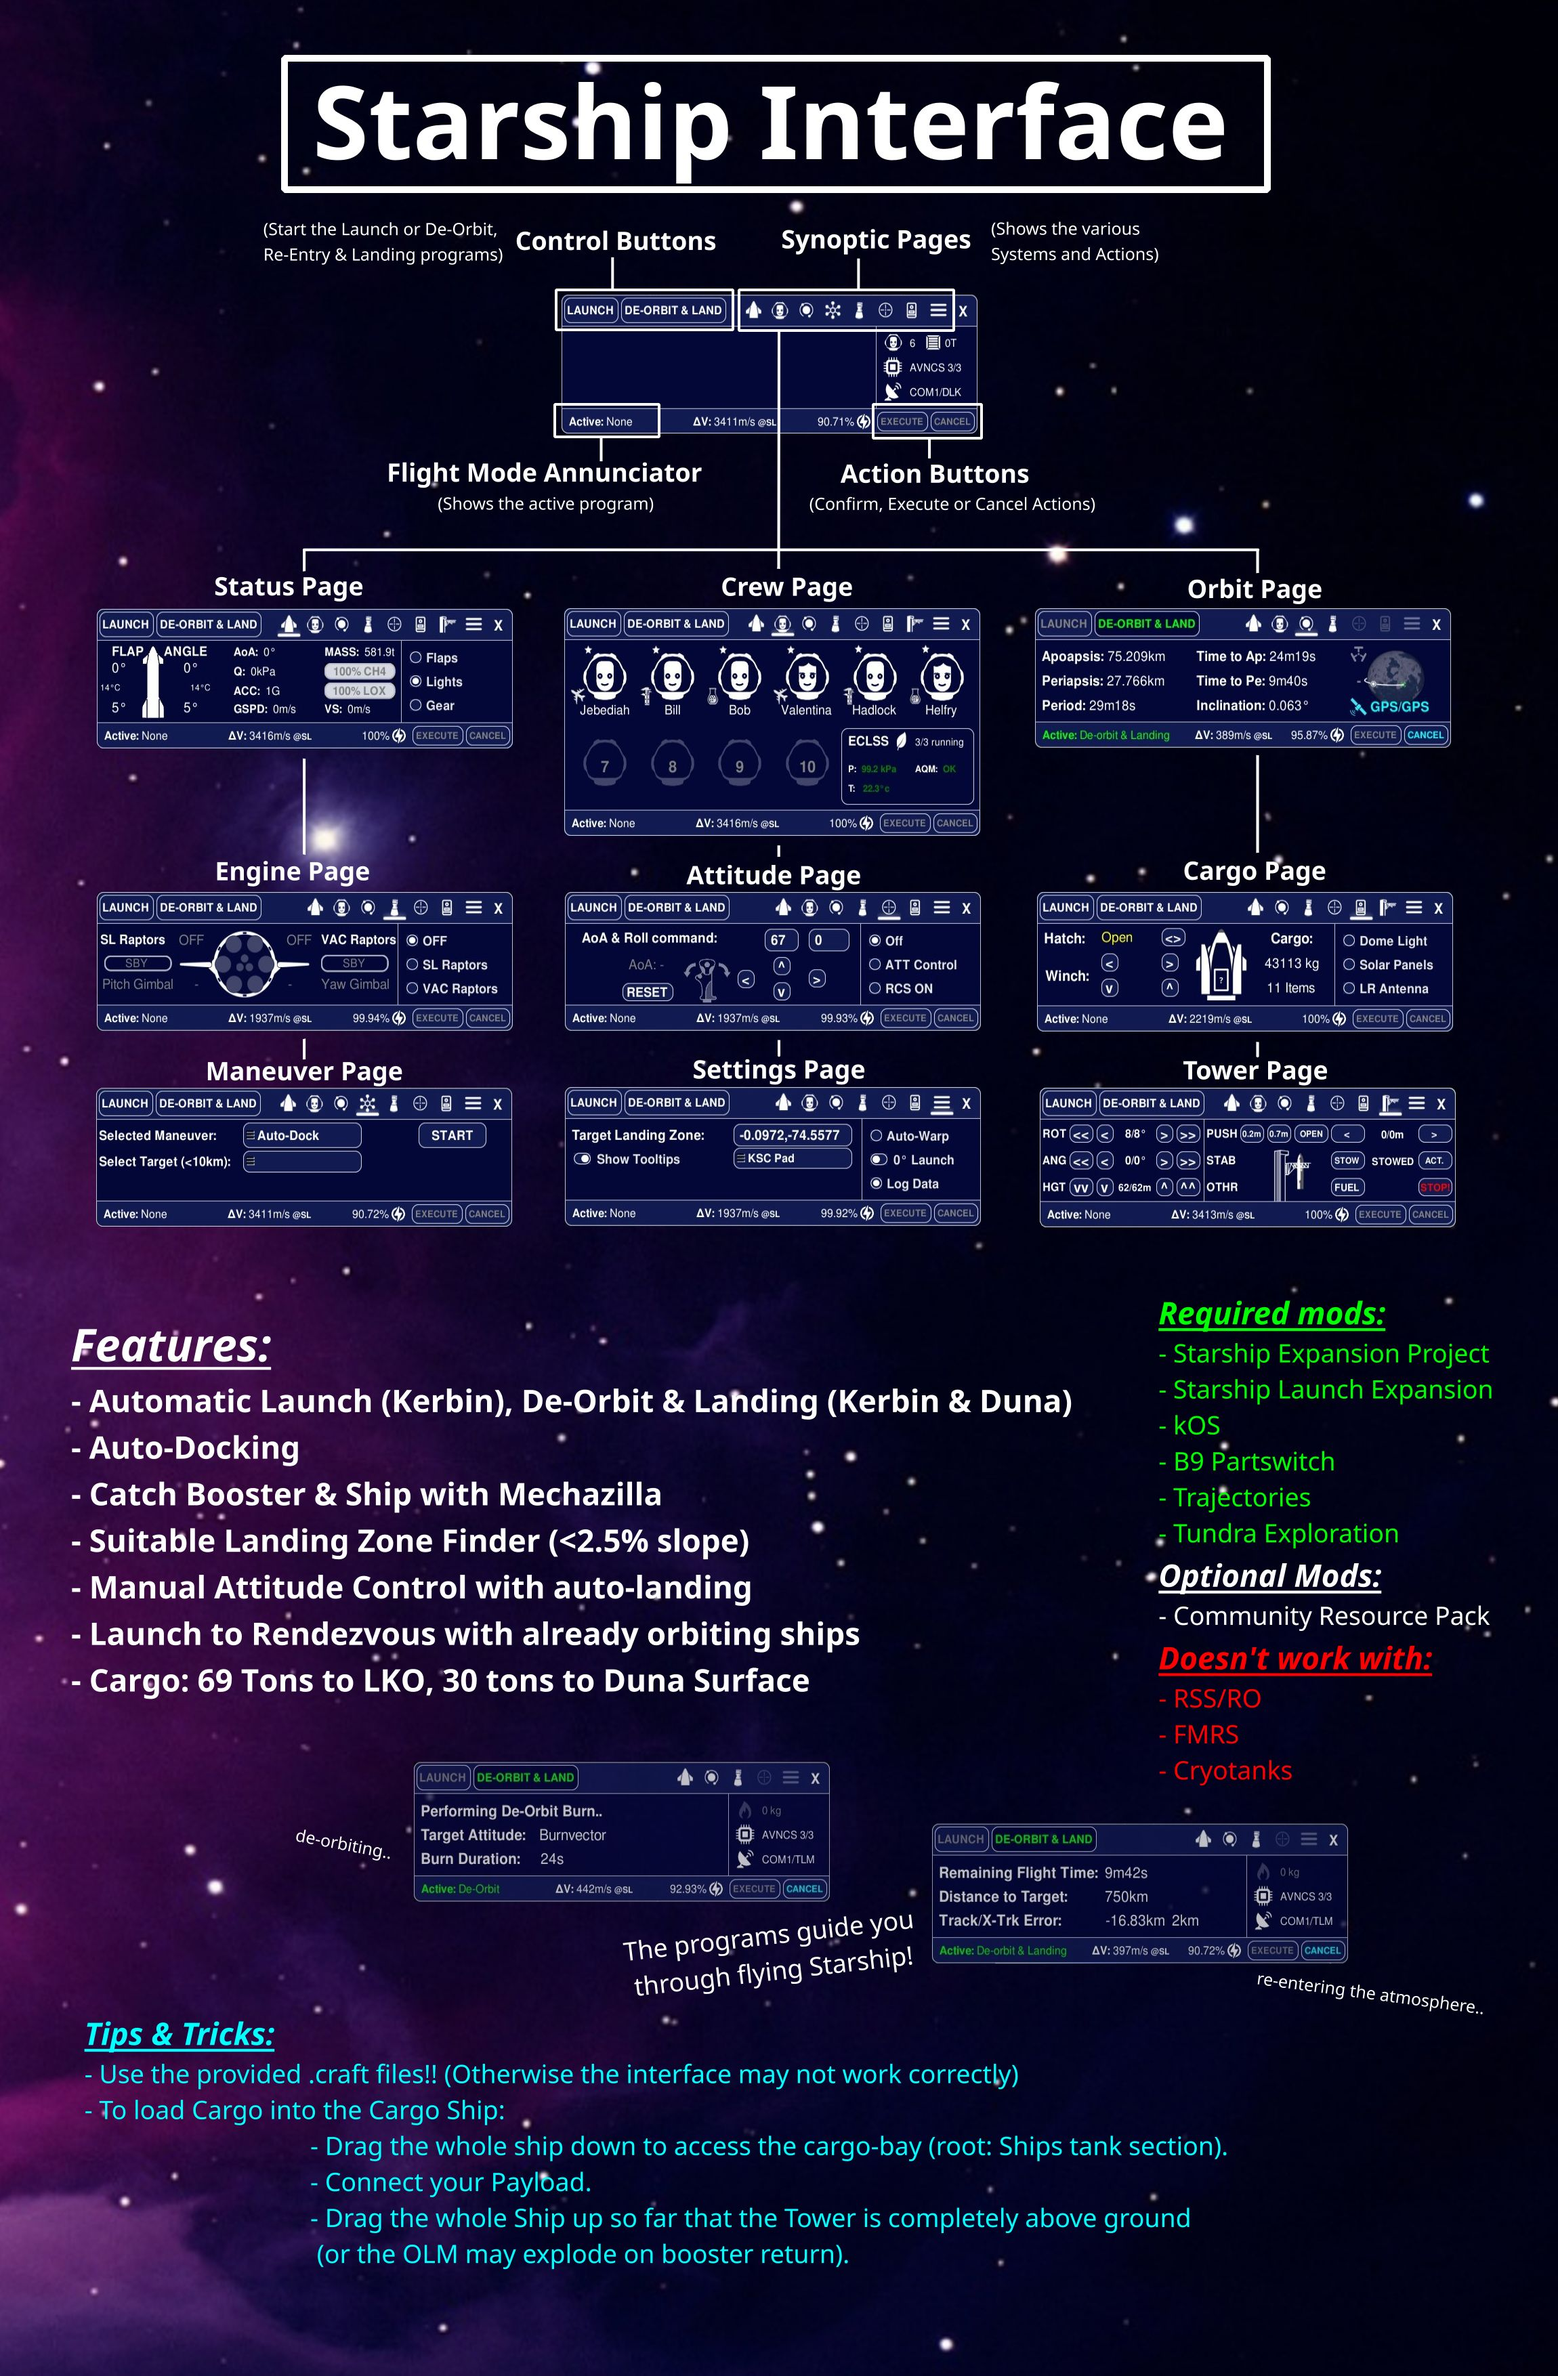
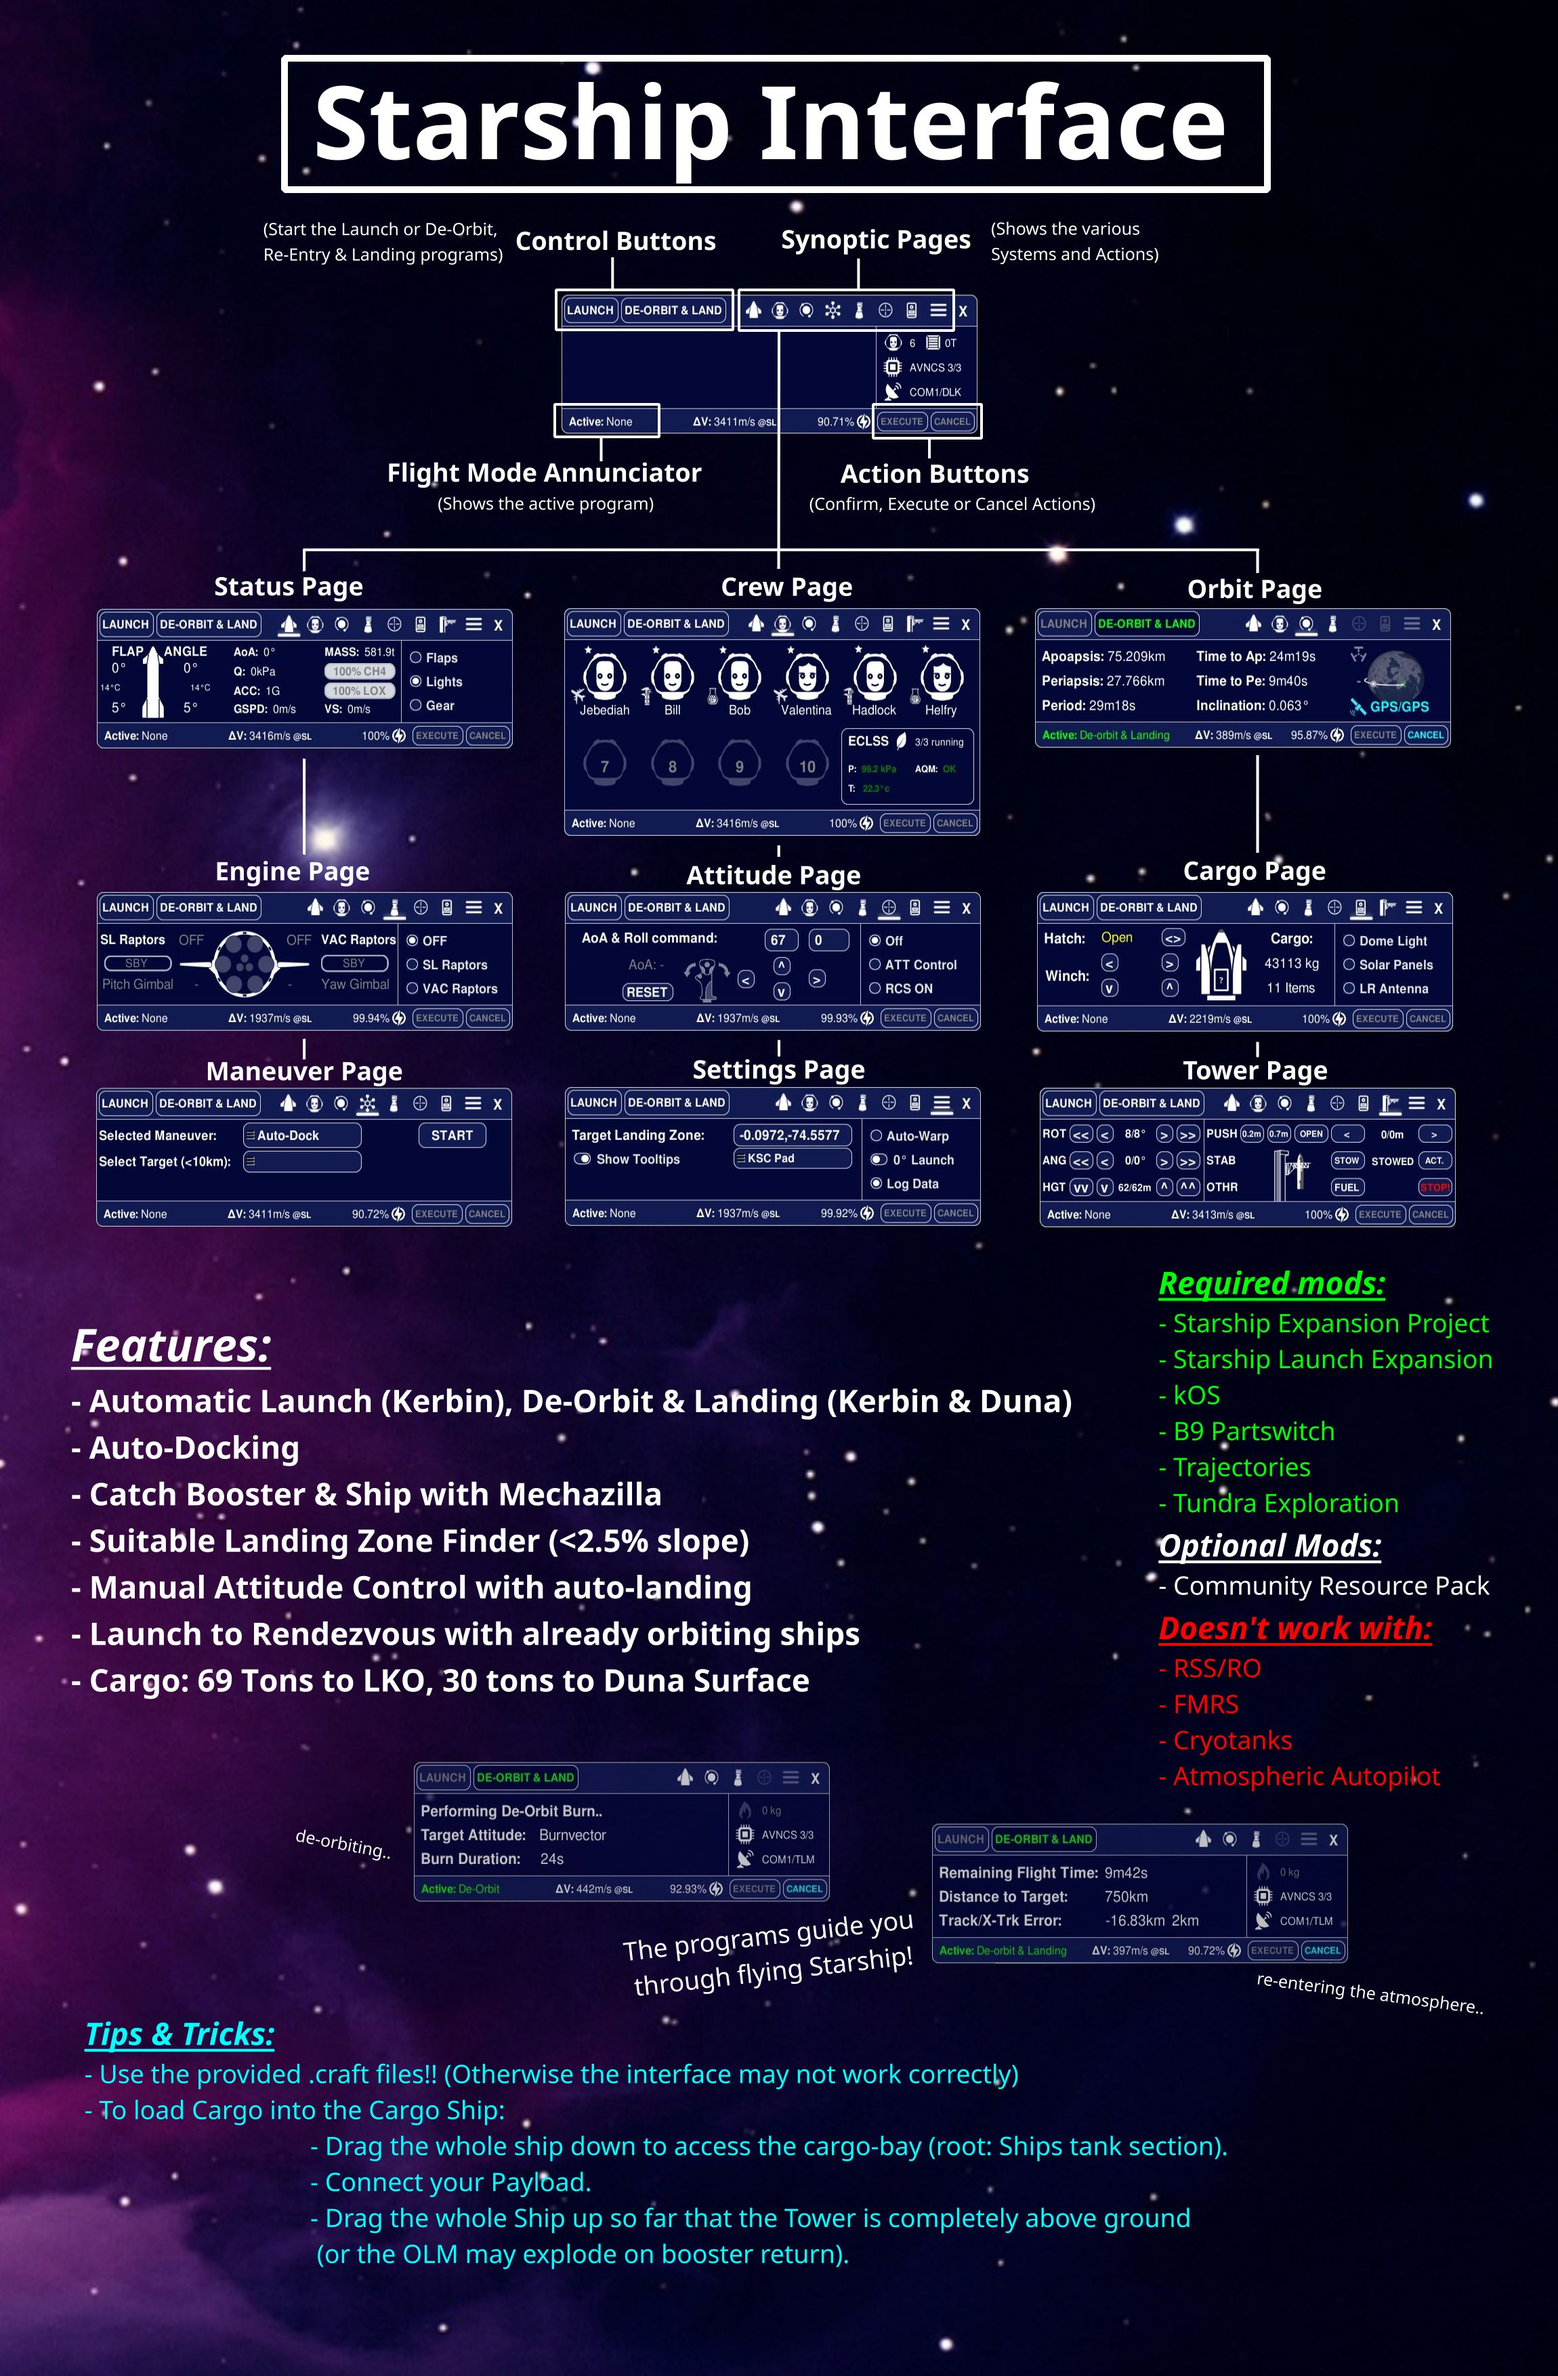
see changelog for changes

Changed region(s): [[0.7409, 0.5282, 0.957, 0.7768], [0.8643, 0.7457, 0.9261, 0.7768]]

diff --git a/README.md b/README.md
@@ -6,7 +6,7 @@ An Interface for automating the 'Starship Expansion Project' and 'Starship Launc
 # TO INSTALL:
 - Download the zip file.
 - Extract the contents to a folder.
-- Copy the contents of this folder into your /Kerbal Space Program folder.
+- Copy the 'GameData' and 'Ships' folders into your /Kerbal Space Program folder.
 
 
 # IMPORTANT:
@@ -28,10 +28,11 @@ An Interface for automating the 'Starship Expansion Project' and 'Starship Launc
 - Community Resource Pack (for using "liquid methane" instead of ksp's standard "liquid fuel")
     https://forum.kerbalspaceprogram.com/index.php?/topic/83007-1x-community-resource-pack/
 
-# DOES NOT WORK WITH:
+# USERS REPORT IT DOES NOT WORK WITH:
 - RSS/RO
 - FMRS
 - Cryotanks
+- Atmospheric Autopilot
 
 
 

diff --git a/CHANGELOG.md b/CHANGELOG.md
@@ -1,5 +1,6 @@
 # V1.0.1c
 - More reliable Booster Engine Mode switching.
+- Incompatibility added with Atmospheric Autopilot. It changes the names of certain modules.
 
 # V1.0.1b
 - More accurate maneuver page burns.
